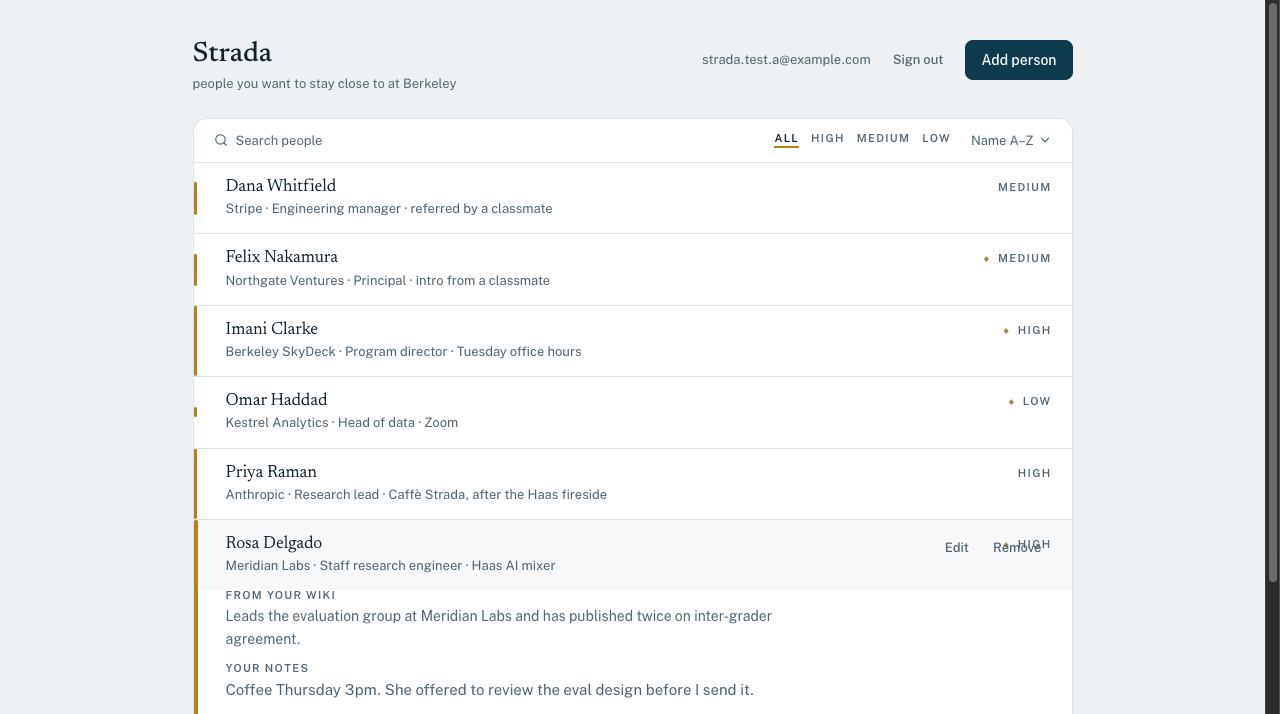
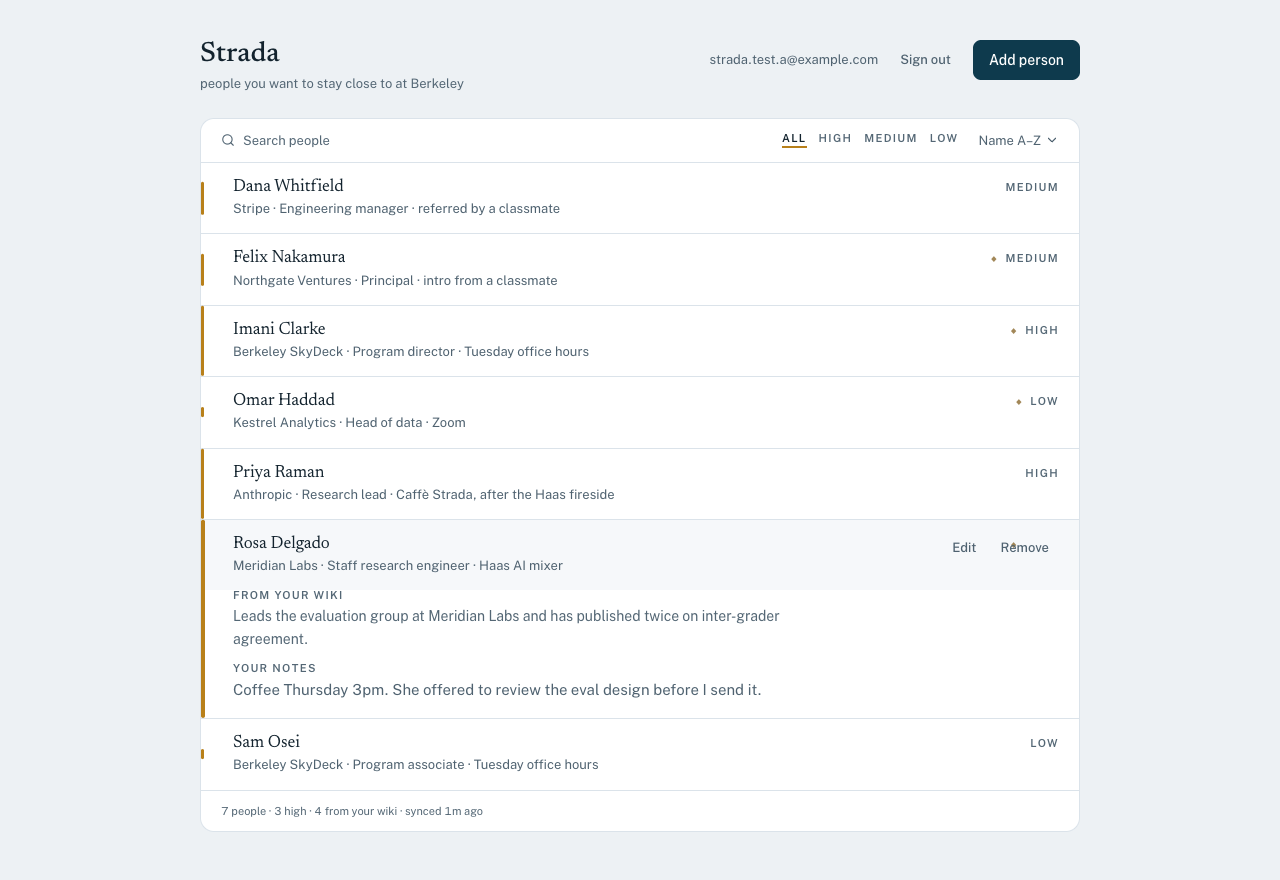
Show the two layers and the locked form in the README
The ownership split was described in prose but never shown. Two screenshots,
both against the fictional test account on the deployed app: an expanded
contact with the wiki's account of the person above the operator's own notes,
and the edit form with the wiki fields settled into plain text and a line
naming the page they come from.

Claude-Session: https://claude.ai/code/session_01QesLkQCtSny2TGhkTxZjLh

diff --git a/README.md b/README.md
@@ -640,6 +640,13 @@ keep the decision.
 A hand-made contact has no wiki layer at all: every field is yours, and the CRUD
 behaviour is exactly what it was before any of this existed.
 
+![A contact's two layers](docs/screenshots/11-two-layers.png)
+
+Expanding a wiki-linked contact shows both: the wiki's account of the person in the
+faint ink it uses for reference material, and your own notes below it in the ink used
+for things you wrote. The three rows without the ◆ mark are hand-made and have no upper
+half at all.
+
 **This replaced a per-field claim system, and the replacement is smaller.** The previous
 design let sync and the app both write `notes`, then arbitrated: an `operator_set` column
 recording which fields a human had claimed, a `POST /:id/reclaim` endpoint to release a
@@ -660,6 +667,12 @@ telling apart:
    field. This is the half that produces a good error message.
 2. **A `BEFORE UPDATE` trigger** (migration 003) refuses the write at the database. This
    is the half that still holds when the API is wrong.
+
+![Wiki fields locked in the edit form](docs/screenshots/12-wiki-fields-locked.png)
+
+In the form the wiki fields keep their values but lose their input chrome, and a line
+names the page they come from. Disabling them is a courtesy that explains the model —
+the guarantee is the two checks below, not the `disabled` attribute.
 
 The comparison is by **value, not by presence**. The edit form submits every field, so an
 ordinary edit of a wiki-linked contact necessarily restates `name`, `company`, `role` and
